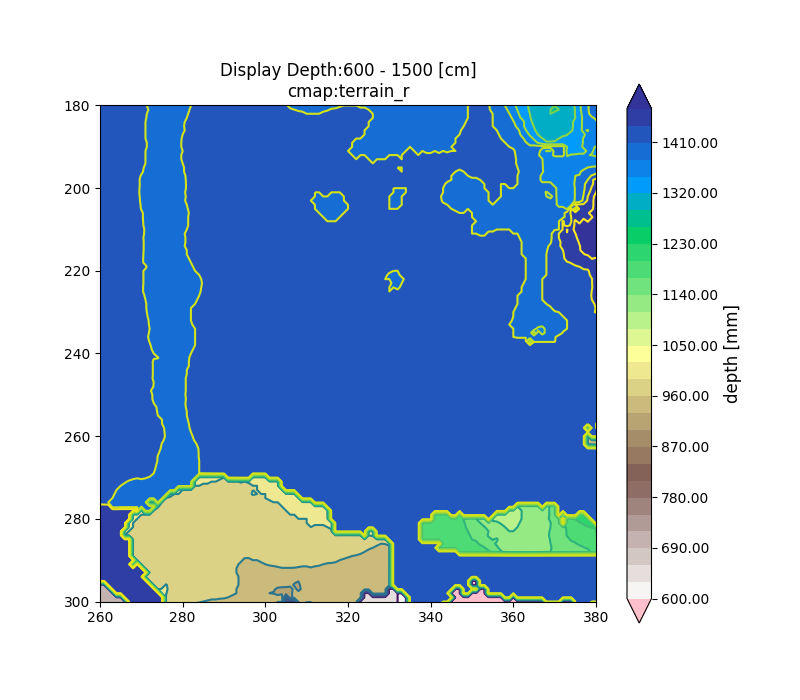
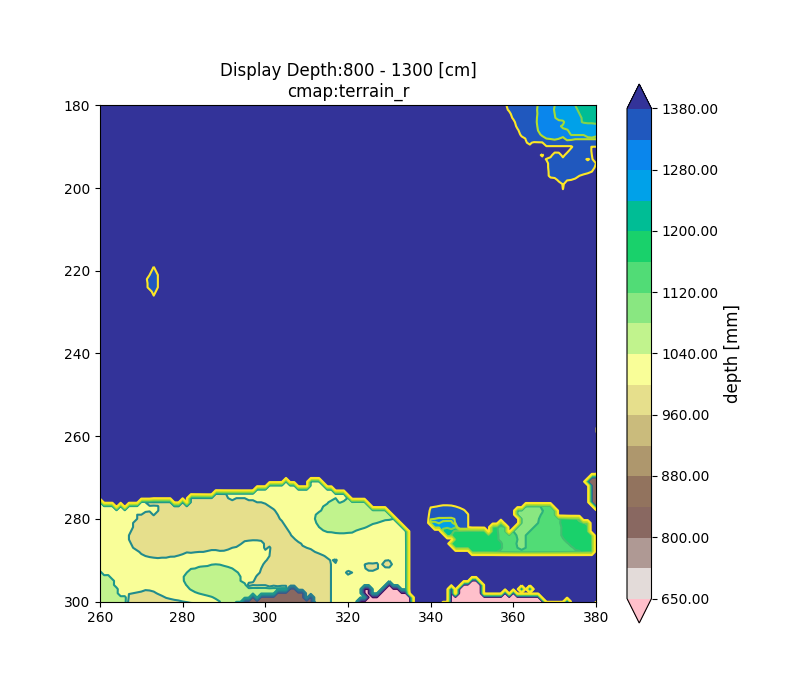
modify main

diff --git a/main.py b/main.py
@@ -166,9 +166,9 @@ def main():
             # far =1200
             axContour.set_title("Display Depth:"+str(contourNear)+" - "+str(contourFar)+" [cm]\n"+"cmap:"+colormaps[colorMapType])
             # levelmapColor = np.linspace(contourNear,contourFar,8)
-            contourArray1 = np.arange(contourNear-150,contourNear,50)
-            contourArray2 = np.arange(contourNear,contourFar,20)
-            contourArray3 = np.arange(contourFar,contourFar+150,50)
+            contourArray1 = np.arange(contourNear-150,contourNear,80)  # pitch mm
+            contourArray2 = np.arange(contourNear,contourFar,40)  #pitch mm
+            contourArray3 = np.arange(contourFar,contourFar+150,80) #pitch mm
             levelmapColor=np.append(contourArray1,contourArray2)
             levelmapColor=np.append(levelmapColor,contourArray3)
             # levelmapColor = np.arange(contourNear,contourFar,30)
